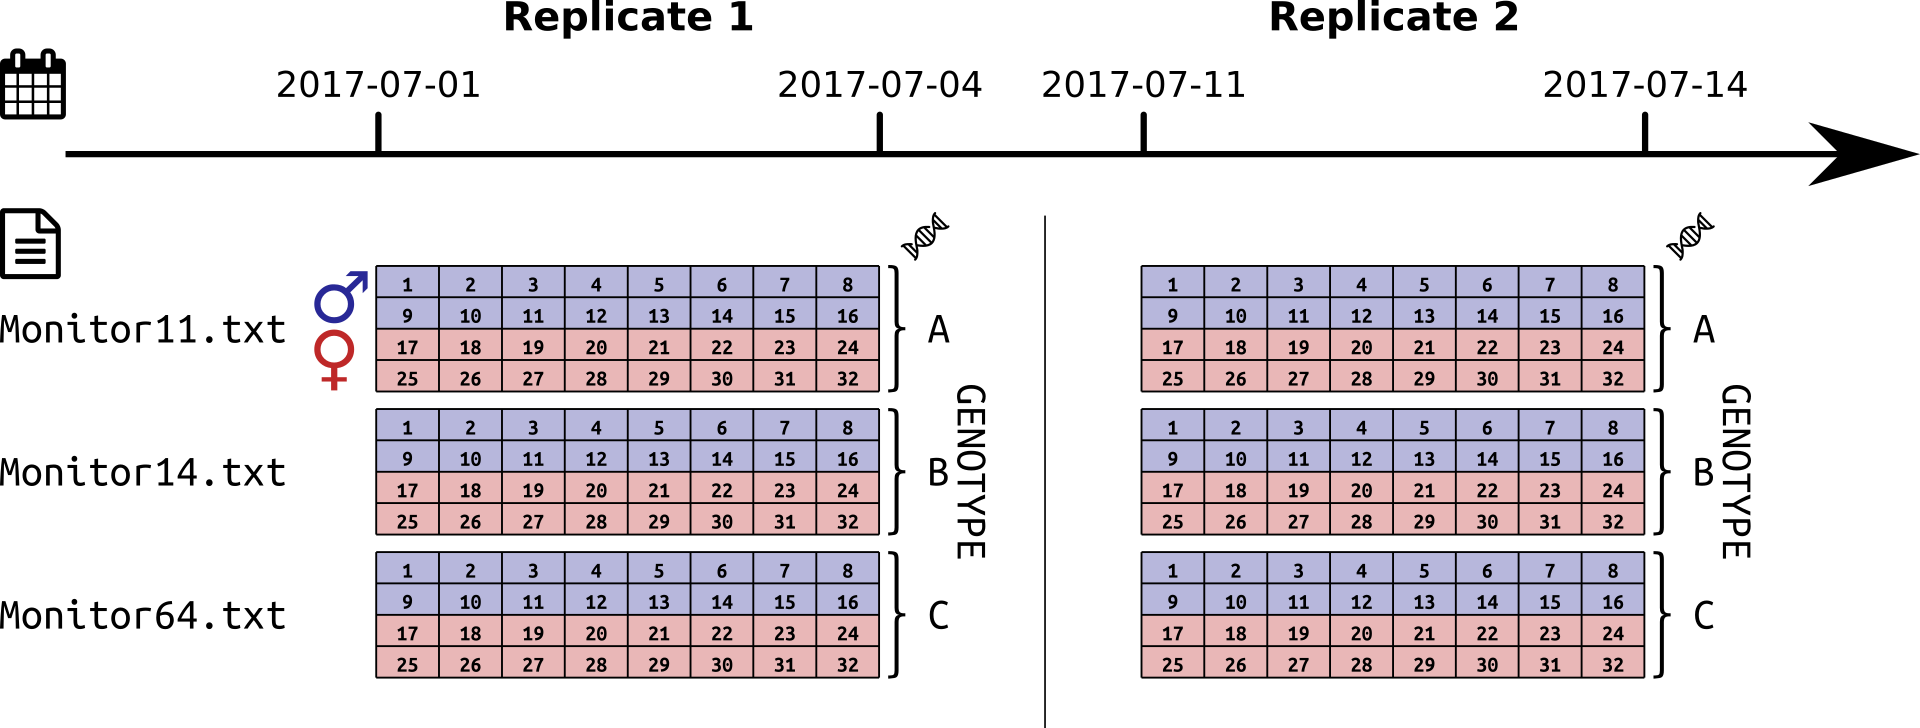
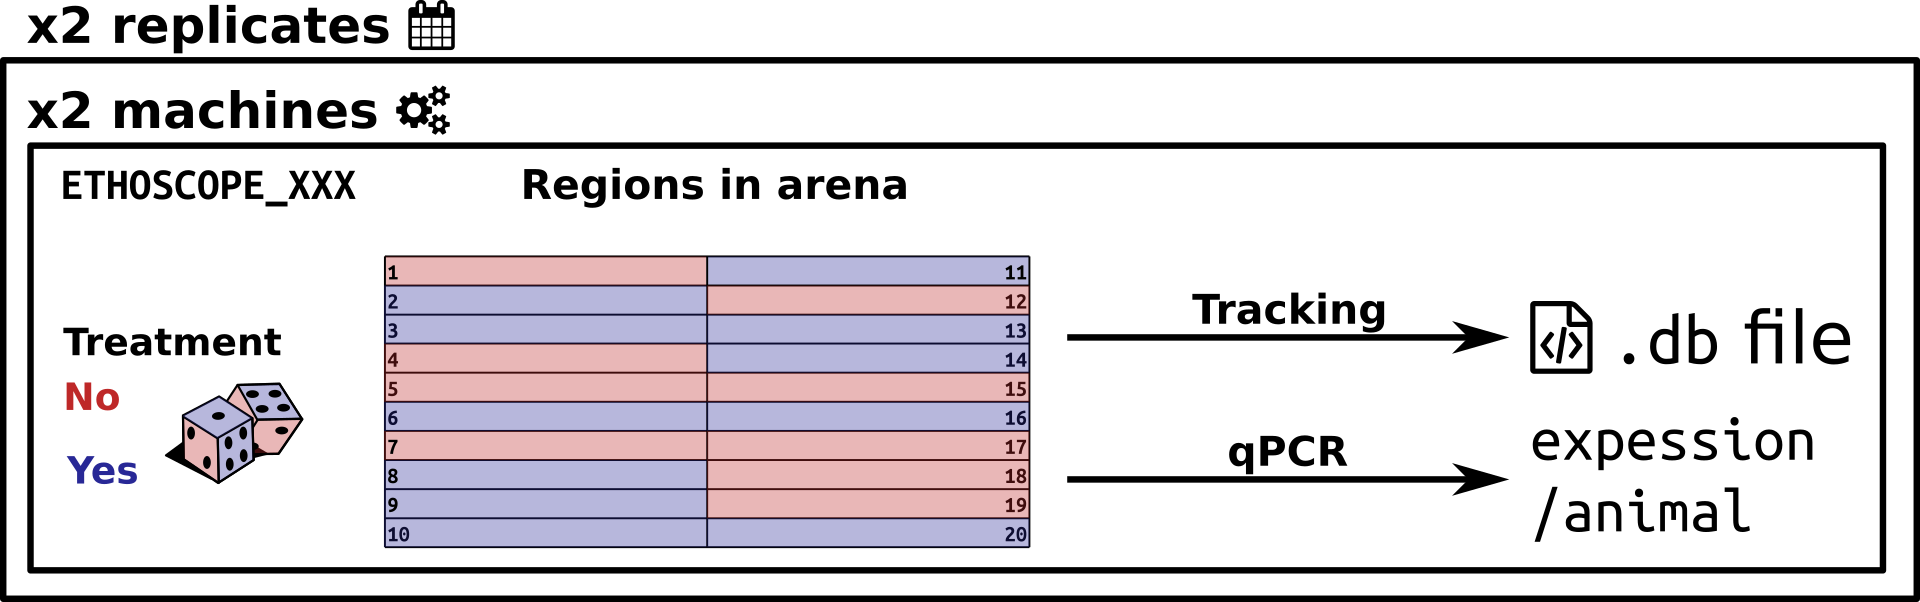
Automatic deployment after 34cadfd71b94da351103d5d067d155c7a27e43b2 [ci skip]

diff --git a/scopr.html b/scopr.html
@@ -209,6 +209,7 @@ code > span.in { color: #60a0b0; font-weight: bold; font-style: italic; } /* Inf
 <li class="chapter" data-level="" data-path="ggetho.html"><a href="ggetho.html#time-scale-units"><i class="fa fa-check"></i>Time scale units</a></li>
 <li class="chapter" data-level="" data-path="ggetho.html"><a href="ggetho.html#coordinate-systems"><i class="fa fa-check"></i>Coordinate systems</a></li>
 </ul></li>
+<li class="chapter" data-level="" data-path="ggetho.html"><a href="ggetho.html#facet-by-id"><i class="fa fa-check"></i>Facet by ID</a></li>
 <li class="chapter" data-level="" data-path="ggetho.html"><a href="ggetho.html#periodograms"><i class="fa fa-check"></i>Periodograms</a></li>
 <li class="chapter" data-level="" data-path="ggetho.html"><a href="ggetho.html#miscelaneous"><i class="fa fa-check"></i>Miscelaneous</a></li>
 <li class="chapter" data-level="" data-path="ggetho.html"><a href="ggetho.html#next-steps-2"><i class="fa fa-check"></i>Next steps</a></li>
@@ -238,8 +239,8 @@ code > span.in { color: #60a0b0; font-weight: bold; font-style: italic; } /* Inf
 <p><strong>Large data</strong></p>
 <hr />
 <div class="figure">
-<img src="assets/ethoscope_experiment.png" alt="An ethoscope experiment. todo" />
-<p class="caption">An ethoscope experiment. todo</p>
+<img src="assets/ethoscope_experiment.png" alt="Example of an ethoscope experiment. Twenty flies per ethoscope are either treated or not. Positions are randomised. Two machines are used in parallel, and two replicates are performed at another time. In total, 80 animals were present in this experiment. Tracked animals are also subsequently scored for another phenotype (gene expression level)" />
+<p class="caption">Example of an ethoscope experiment. Twenty flies per ethoscope are either treated or not. Positions are randomised. Two machines are used in parallel, and two replicates are performed at another time. In total, 80 animals were present in this experiment. Tracked animals are also subsequently scored for another phenotype (gene expression level)</p>
 </div>
 <div id="aims-1" class="section level2 unnumbered">
 <h2>Aims</h2>
@@ -328,8 +329,8 @@ code > span.in { color: #60a0b0; font-weight: bold; font-style: italic; } /* Inf
 <li>Study the correlations between the activity (or the drug) and the level of transcript <!-- * Account for the replication design (aka [random effect](https://en.wikipedia.org/wiki/Random_effects_model)) --></li>
 </ul>
 <div class="figure">
-<img src="assets/ethoscope_experiment.png" alt="An Ethoscope experiment. Todo" />
-<p class="caption">An Ethoscope experiment. Todo</p>
+<img src="assets/ethoscope_experiment.png" alt="Our experimental design" />
+<p class="caption">Our experimental design</p>
 </div>
 </div>
 <div id="metadata-2" class="section level3 unnumbered">
@@ -609,7 +610,7 @@ dt &lt;-<span class="st"> </span><span class="kw">load_ethoscope</span>(metadata
 ## 4641273:            0            0   TRUE  FALSE           FALSE
 ## 4641274:            0            0   TRUE  FALSE           FALSE
 ## 4641275:            0            1   TRUE  FALSE           FALSE</code></pre>
-<p>We have several variable. the important ones are:</p>
+<p>We have several variables (see in the <code>===DATA===</code> section of the output). The important ones are:</p>
 <ul>
 <li><code>t</code> – the time, in s, sample eveyr 10s</li>
 <li><code>x</code> – the position in the tube (0 = left, 1=right)</li>
@@ -640,7 +641,7 @@ dt &lt;-<span class="st"> </span><span class="kw">load_ethoscope</span>(metadata
                        <span class="dt">verbose=</span><span class="ot">FALSE</span>)
 )</code></pre></div>
 <pre><code>##    user  system elapsed 
-## 146.480   2.748 149.953</code></pre>
+## 153.456   3.436 157.960</code></pre>
 <p>However, the next time, we do the same thing way faster:</p>
 <div class="sourceCode"><pre class="sourceCode r"><code class="sourceCode r"><span class="kw">system.time</span>(
   dt &lt;-<span class="st"> </span><span class="kw">load_ethoscope</span>(metadata,
@@ -650,7 +651,7 @@ dt &lt;-<span class="st"> </span><span class="kw">load_ethoscope</span>(metadata
                        <span class="dt">verbose=</span><span class="ot">FALSE</span>)
 )</code></pre></div>
 <pre><code>##    user  system elapsed 
-##   1.976   0.040   2.016</code></pre>
+##   1.972   0.024   1.960</code></pre>
 <p>Here, we set <code>cache</code> to <code>&quot;ethoscope_cache&quot;</code>. This creates a new directory called <code>&quot;ethoscope_cache&quot;</code> (you can pick the name and location you want). If you to do a bit of tidying up, you can remove it without risk (it will just take time next time you load your data).</p>
 </div>
 </div>

diff --git a/ggetho.html b/ggetho.html
@@ -209,6 +209,7 @@ code > span.in { color: #60a0b0; font-weight: bold; font-style: italic; } /* Inf
 <li class="chapter" data-level="" data-path="ggetho.html"><a href="ggetho.html#time-scale-units"><i class="fa fa-check"></i>Time scale units</a></li>
 <li class="chapter" data-level="" data-path="ggetho.html"><a href="ggetho.html#coordinate-systems"><i class="fa fa-check"></i>Coordinate systems</a></li>
 </ul></li>
+<li class="chapter" data-level="" data-path="ggetho.html"><a href="ggetho.html#facet-by-id"><i class="fa fa-check"></i>Facet by ID</a></li>
 <li class="chapter" data-level="" data-path="ggetho.html"><a href="ggetho.html#periodograms"><i class="fa fa-check"></i>Periodograms</a></li>
 <li class="chapter" data-level="" data-path="ggetho.html"><a href="ggetho.html#miscelaneous"><i class="fa fa-check"></i>Miscelaneous</a></li>
 <li class="chapter" data-level="" data-path="ggetho.html"><a href="ggetho.html#next-steps-2"><i class="fa fa-check"></i>Next steps</a></li>
@@ -489,6 +490,10 @@ pl <span class="op">+</span><span class="st"> </span><span class="kw">coord_pola
 <p><img src="rethomics_files/figure-html/unnamed-chunk-77-1.png" width="672" /></p>
 </div>
 </div>
+<div id="facet-by-id" class="section level2 unnumbered">
+<h2>Facet by ID</h2>
+<p>TODO</p>
+</div>
 <div id="periodograms" class="section level2 unnumbered">
 <h2>Periodograms</h2>
 <p><strong>TODO</strong></p>
@@ -528,7 +533,8 @@ per_dt</code></pre></div>
 ## 6440: toy_experiment|40 115200 1159.2151         2138.776</code></pre>
 <div class="sourceCode"><pre class="sourceCode r"><code class="sourceCode r"><span class="kw">ggplot</span>(<span class="kw">rejoin</span>(per_dt), <span class="kw">aes</span>(period, power, <span class="dt">colour=</span>condition)) <span class="op">+</span><span class="st"> </span>
 <span class="st">        </span><span class="kw">geom_line</span>(<span class="dt">mapping =</span> <span class="kw">aes</span>(<span class="dt">group =</span> id), <span class="dt">alpha=</span>.<span class="dv">1</span>) <span class="op">+</span><span class="st"> </span>
-<span class="st">        </span><span class="kw">scale_x_hours</span>() <span class="op">+</span><span class="st"> </span><span class="kw">stat_summary</span>(<span class="dt">geom=</span><span class="st">&quot;smooth&quot;</span>, <span class="dt">fun.data =</span>  mean_se)</code></pre></div>
+<span class="st">        </span><span class="kw">scale_x_hours</span>() <span class="op">+</span><span class="st"> </span>
+<span class="st">        </span><span class="kw">stat_summary</span>(<span class="dt">geom=</span><span class="st">&quot;smooth&quot;</span>, <span class="dt">fun.data =</span>  mean_se)</code></pre></div>
 <p><img src="rethomics_files/figure-html/unnamed-chunk-79-1.png" width="672" /></p>
 </div>
 <div id="miscelaneous" class="section level2 unnumbered">
@@ -597,7 +603,7 @@ gitbook.start({
 "size": 2
 },
 "edit": {
-"link": "https://github.com/rethomics/rethomics.github.io/edit/source/07-advanced-visualisation.Rmd",
+"link": "https://github.com/rethomics/rethomics.github.io/edit/source/07-ggetho.Rmd",
 "text": "Edit"
 },
 "download": ["rethomics.pdf", "rethomics.epub"],

diff --git a/behavr.html b/behavr.html
@@ -209,6 +209,7 @@ code > span.in { color: #60a0b0; font-weight: bold; font-style: italic; } /* Inf
 <li class="chapter" data-level="" data-path="ggetho.html"><a href="ggetho.html#time-scale-units"><i class="fa fa-check"></i>Time scale units</a></li>
 <li class="chapter" data-level="" data-path="ggetho.html"><a href="ggetho.html#coordinate-systems"><i class="fa fa-check"></i>Coordinate systems</a></li>
 </ul></li>
+<li class="chapter" data-level="" data-path="ggetho.html"><a href="ggetho.html#facet-by-id"><i class="fa fa-check"></i>Facet by ID</a></li>
 <li class="chapter" data-level="" data-path="ggetho.html"><a href="ggetho.html#periodograms"><i class="fa fa-check"></i>Periodograms</a></li>
 <li class="chapter" data-level="" data-path="ggetho.html"><a href="ggetho.html#miscelaneous"><i class="fa fa-check"></i>Miscelaneous</a></li>
 <li class="chapter" data-level="" data-path="ggetho.html"><a href="ggetho.html#next-steps-2"><i class="fa fa-check"></i>Next steps</a></li>

diff --git a/damr.html b/damr.html
@@ -209,6 +209,7 @@ code > span.in { color: #60a0b0; font-weight: bold; font-style: italic; } /* Inf
 <li class="chapter" data-level="" data-path="ggetho.html"><a href="ggetho.html#time-scale-units"><i class="fa fa-check"></i>Time scale units</a></li>
 <li class="chapter" data-level="" data-path="ggetho.html"><a href="ggetho.html#coordinate-systems"><i class="fa fa-check"></i>Coordinate systems</a></li>
 </ul></li>
+<li class="chapter" data-level="" data-path="ggetho.html"><a href="ggetho.html#facet-by-id"><i class="fa fa-check"></i>Facet by ID</a></li>
 <li class="chapter" data-level="" data-path="ggetho.html"><a href="ggetho.html#periodograms"><i class="fa fa-check"></i>Periodograms</a></li>
 <li class="chapter" data-level="" data-path="ggetho.html"><a href="ggetho.html#miscelaneous"><i class="fa fa-check"></i>Miscelaneous</a></li>
 <li class="chapter" data-level="" data-path="ggetho.html"><a href="ggetho.html#next-steps-2"><i class="fa fa-check"></i>Next steps</a></li>

diff --git a/index.html b/index.html
@@ -209,6 +209,7 @@ code > span.in { color: #60a0b0; font-weight: bold; font-style: italic; } /* Inf
 <li class="chapter" data-level="" data-path="ggetho.html"><a href="ggetho.html#time-scale-units"><i class="fa fa-check"></i>Time scale units</a></li>
 <li class="chapter" data-level="" data-path="ggetho.html"><a href="ggetho.html#coordinate-systems"><i class="fa fa-check"></i>Coordinate systems</a></li>
 </ul></li>
+<li class="chapter" data-level="" data-path="ggetho.html"><a href="ggetho.html#facet-by-id"><i class="fa fa-check"></i>Facet by ID</a></li>
 <li class="chapter" data-level="" data-path="ggetho.html"><a href="ggetho.html#periodograms"><i class="fa fa-check"></i>Periodograms</a></li>
 <li class="chapter" data-level="" data-path="ggetho.html"><a href="ggetho.html#miscelaneous"><i class="fa fa-check"></i>Miscelaneous</a></li>
 <li class="chapter" data-level="" data-path="ggetho.html"><a href="ggetho.html#next-steps-2"><i class="fa fa-check"></i>Next steps</a></li>

diff --git a/intro.html b/intro.html
@@ -209,6 +209,7 @@ code > span.in { color: #60a0b0; font-weight: bold; font-style: italic; } /* Inf
 <li class="chapter" data-level="" data-path="ggetho.html"><a href="ggetho.html#time-scale-units"><i class="fa fa-check"></i>Time scale units</a></li>
 <li class="chapter" data-level="" data-path="ggetho.html"><a href="ggetho.html#coordinate-systems"><i class="fa fa-check"></i>Coordinate systems</a></li>
 </ul></li>
+<li class="chapter" data-level="" data-path="ggetho.html"><a href="ggetho.html#facet-by-id"><i class="fa fa-check"></i>Facet by ID</a></li>
 <li class="chapter" data-level="" data-path="ggetho.html"><a href="ggetho.html#periodograms"><i class="fa fa-check"></i>Periodograms</a></li>
 <li class="chapter" data-level="" data-path="ggetho.html"><a href="ggetho.html#miscelaneous"><i class="fa fa-check"></i>Miscelaneous</a></li>
 <li class="chapter" data-level="" data-path="ggetho.html"><a href="ggetho.html#next-steps-2"><i class="fa fa-check"></i>Next steps</a></li>

diff --git a/metadata.html b/metadata.html
@@ -209,6 +209,7 @@ code > span.in { color: #60a0b0; font-weight: bold; font-style: italic; } /* Inf
 <li class="chapter" data-level="" data-path="ggetho.html"><a href="ggetho.html#time-scale-units"><i class="fa fa-check"></i>Time scale units</a></li>
 <li class="chapter" data-level="" data-path="ggetho.html"><a href="ggetho.html#coordinate-systems"><i class="fa fa-check"></i>Coordinate systems</a></li>
 </ul></li>
+<li class="chapter" data-level="" data-path="ggetho.html"><a href="ggetho.html#facet-by-id"><i class="fa fa-check"></i>Facet by ID</a></li>
 <li class="chapter" data-level="" data-path="ggetho.html"><a href="ggetho.html#periodograms"><i class="fa fa-check"></i>Periodograms</a></li>
 <li class="chapter" data-level="" data-path="ggetho.html"><a href="ggetho.html#miscelaneous"><i class="fa fa-check"></i>Miscelaneous</a></li>
 <li class="chapter" data-level="" data-path="ggetho.html"><a href="ggetho.html#next-steps-2"><i class="fa fa-check"></i>Next steps</a></li>

diff --git a/workflow.html b/workflow.html
@@ -209,6 +209,7 @@ code > span.in { color: #60a0b0; font-weight: bold; font-style: italic; } /* Inf
 <li class="chapter" data-level="" data-path="ggetho.html"><a href="ggetho.html#time-scale-units"><i class="fa fa-check"></i>Time scale units</a></li>
 <li class="chapter" data-level="" data-path="ggetho.html"><a href="ggetho.html#coordinate-systems"><i class="fa fa-check"></i>Coordinate systems</a></li>
 </ul></li>
+<li class="chapter" data-level="" data-path="ggetho.html"><a href="ggetho.html#facet-by-id"><i class="fa fa-check"></i>Facet by ID</a></li>
 <li class="chapter" data-level="" data-path="ggetho.html"><a href="ggetho.html#periodograms"><i class="fa fa-check"></i>Periodograms</a></li>
 <li class="chapter" data-level="" data-path="ggetho.html"><a href="ggetho.html#miscelaneous"><i class="fa fa-check"></i>Miscelaneous</a></li>
 <li class="chapter" data-level="" data-path="ggetho.html"><a href="ggetho.html#next-steps-2"><i class="fa fa-check"></i>Next steps</a></li>
